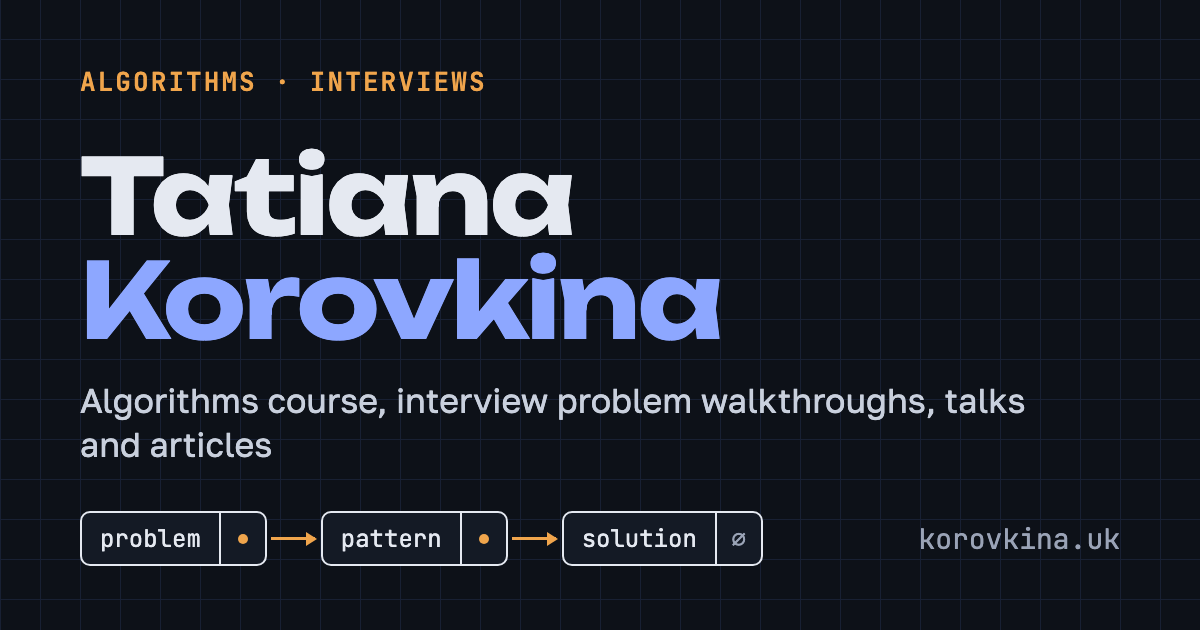
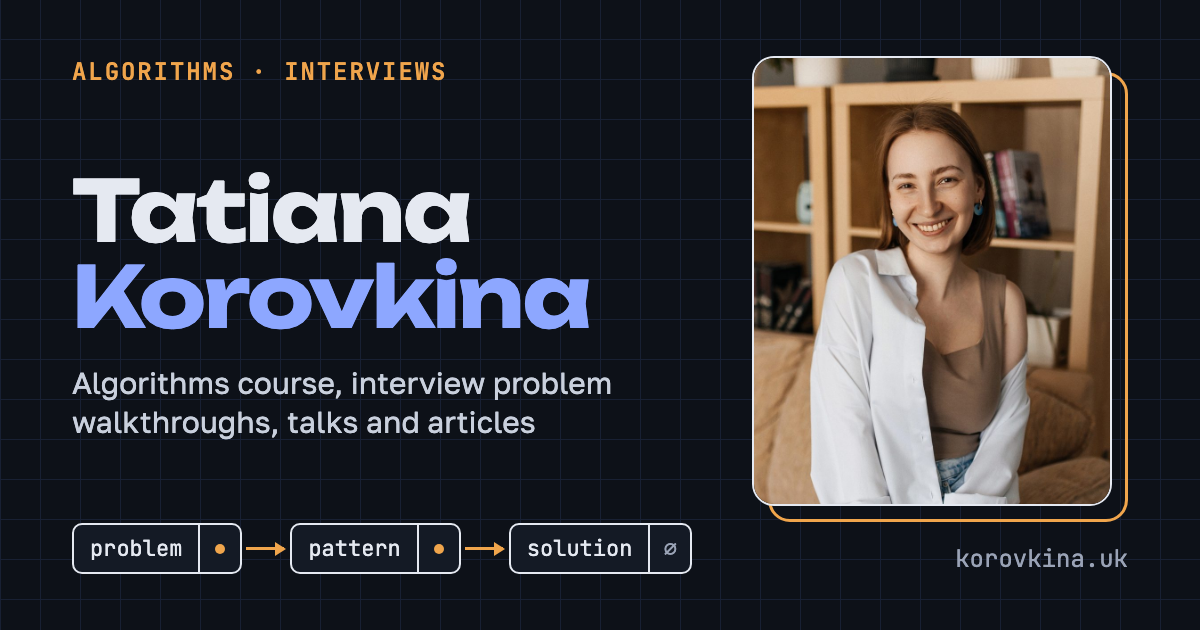
Фото на картинке для превью ссылок

diff --git a/tools/og-card.html b/tools/og-card.html
@@ -9,42 +9,48 @@
   html, body { margin: 0; width: 1200px; height: 630px; overflow: hidden; }
   body {
     background: #0D1118; color: #E5E9F1; font-family: "Golos Text", sans-serif;
-    box-sizing: border-box; padding: 64px 80px; display: flex; flex-direction: column; justify-content: space-between;
+    box-sizing: border-box; padding: 56px 72px 56px 72px;
+    display: grid; grid-template-columns: minmax(0, 1fr) 376px; gap: 56px;
     background-image:
       linear-gradient(90deg, #182033 1px, transparent 1px),
       linear-gradient(0deg, #182033 1px, transparent 1px);
     background-size: 40px 40px;
   }
-  .top { font-family: "JetBrains Mono", monospace; font-size: 26px; font-weight: 600; letter-spacing: 0.08em; text-transform: uppercase; color: #F0A54C; }
-  h1 { font-family: "Unbounded", sans-serif; font-weight: 700; font-size: 104px; line-height: 1.0; letter-spacing: -0.02em; margin: 0; }
+  .text { display: flex; flex-direction: column; justify-content: space-between; min-width: 0; }
+  .top { font-family: "JetBrains Mono", monospace; font-size: 24px; font-weight: 600; letter-spacing: 0.08em; text-transform: uppercase; color: #F0A54C; }
+  h1 { font-family: "Unbounded", sans-serif; font-weight: 700; font-size: 84px; line-height: 1.02; letter-spacing: -0.02em; margin: 0; }
   h1 span { display: block; color: #8DA7FF; }
-  .tag { font-size: 34px; color: #C9D0DD; margin-top: 26px; max-width: 980px; line-height: 1.3; }
-  .bottom { display: flex; align-items: center; justify-content: space-between; }
-  .nodes { display: flex; align-items: center; font-family: "JetBrains Mono", monospace; font-size: 24px; }
+  .tag { font-size: 30px; color: #C9D0DD; margin-top: 24px; line-height: 1.3; }
+  .nodes { display: flex; align-items: center; font-family: "JetBrains Mono", monospace; font-size: 22px; }
   .node { display: inline-flex; border: 2px solid #E5E9F1; border-radius: 10px; overflow: hidden; background: #141A25; }
-  .node b { font-weight: 400; padding: 10px 18px; }
-  .node i { border-left: 2px solid #E5E9F1; width: 44px; display: grid; place-items: center; }
+  .node b { font-weight: 400; padding: 9px 16px; }
+  .node i { border-left: 2px solid #E5E9F1; width: 40px; display: grid; place-items: center; }
   .node i::before { content: ""; width: 10px; height: 10px; border-radius: 50%; background: #F0A54C; }
   .node.last i::before { content: "∅"; width: auto; height: auto; background: none; color: #9AA3B6; font-style: normal; }
-  .arrow { width: 44px; height: 3px; background: #F0A54C; position: relative; margin: 0 6px 0 4px; }
+  .arrow { width: 38px; height: 3px; background: #F0A54C; position: relative; margin: 0 6px 0 4px; }
   .arrow::after { content: ""; position: absolute; right: -2px; top: 50%; transform: translateY(-50%); border-left: 11px solid #F0A54C; border-top: 7px solid transparent; border-bottom: 7px solid transparent; }
-  .domain { font-family: "JetBrains Mono", monospace; font-size: 28px; color: #9AA3B6; }
+  .side { display: flex; flex-direction: column; justify-content: space-between; align-items: stretch; }
+  .photo { position: relative; isolation: isolate; width: 360px; height: 450px; }
+  .photo img { display: block; width: 100%; height: 100%; object-fit: cover; border-radius: 22px; border: 2px solid #E5E9F1; box-sizing: border-box; }
+  .photo::after { content: ""; position: absolute; inset: 16px -16px -16px 16px; border: 3px solid #F0A54C; border-radius: 22px; z-index: -1; }
+  .domain { font-family: "JetBrains Mono", monospace; font-size: 24px; color: #9AA3B6; text-align: right; }
 </style>
 </head>
 <body>
-  <div>
+  <div class="text">
     <div class="top" id="top">Алгоритмы · собеседования</div>
-  </div>
-  <div>
-    <h1 id="name">Татьяна <span>Коровкина</span></h1>
-    <div class="tag" id="tag">Курс по алгоритмам, разборы задач с собеседований, эфиры и статьи</div>
-  </div>
-  <div class="bottom">
+    <div>
+      <h1 id="name">Татьяна <span>Коровкина</span></h1>
+      <div class="tag" id="tag">Курс по алгоритмам, разборы задач с собеседований, эфиры и статьи</div>
+    </div>
     <div class="nodes" id="nodes">
       <span class="node"><b>задача</b><i></i></span><span class="arrow"></span>
       <span class="node"><b>паттерн</b><i></i></span><span class="arrow"></span>
       <span class="node last"><b>решение</b><i></i></span>
     </div>
+  </div>
+  <div class="side">
+    <div class="photo"><img src="../images/tatiana.jpg" alt=""></div>
     <div class="domain">korovkina.uk</div>
   </div>
   <script>
